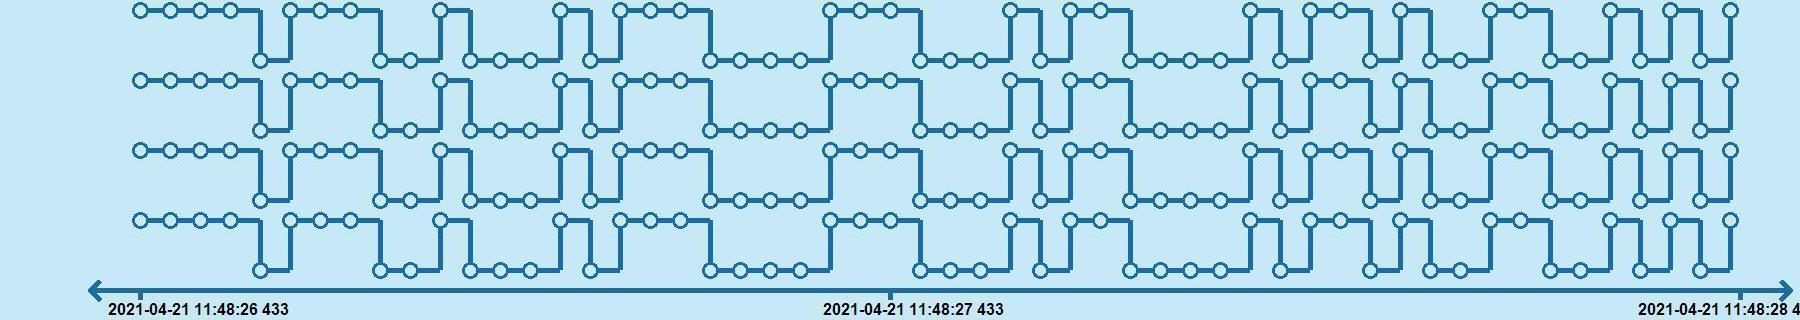
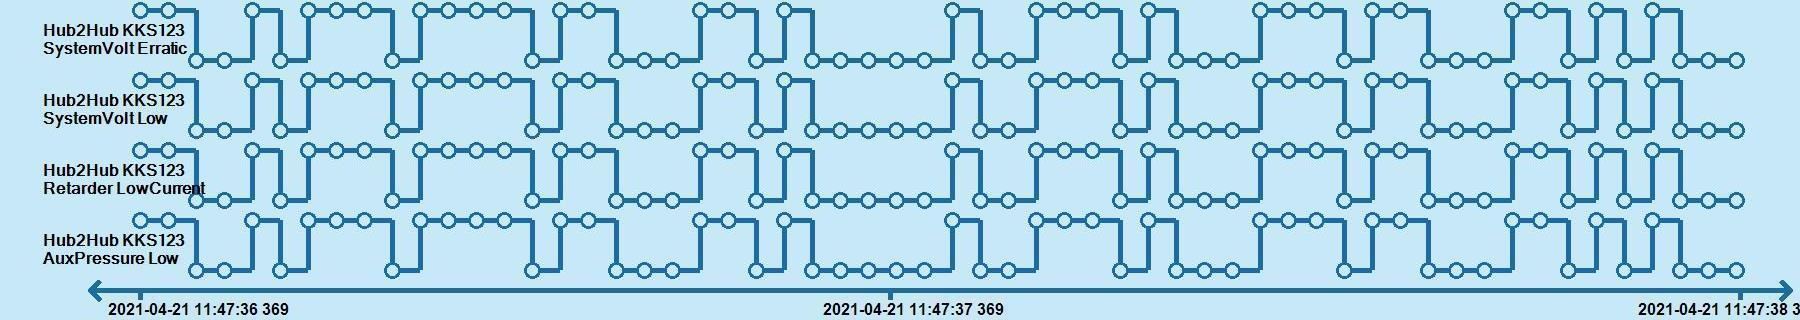
210427 2204

diff --git a/Application/Services/PlotService.cs b/Application/Services/PlotService.cs
@@ -20,12 +20,13 @@ namespace Application
         Color BackgroundColor = System.Drawing.ColorTranslator.FromHtml("#c6e8f7");
         Color PlotPenColor = System.Drawing.ColorTranslator.FromHtml("#1b6ca6");
         Color PlotCircleColor = System.Drawing.ColorTranslator.FromHtml("#1b6ca6");
-        //asdf
+
         public void ResetPlot()
         {
             System.IO.File.Delete("wwwroot/PlotWorkCanvas.jpeg");
             System.IO.File.Copy("wwwroot/PlotStartCanvas.jpeg", "wwwroot/PlotWorkCanvas.jpeg");
         }
+
         public List<Coordinate> CreateCoordinateList(List<XYValuePair> XYValuePairsList) //Bygg Överlagrad när det kommer till integers.
         {
             List<Int64> XWorkList = new List<Int64>();
@@ -118,8 +119,11 @@ namespace Application
             return result.ToString() + " " + result.Millisecond;
         }
 
-        public void PlotGraphTo(List<Coordinate> coordinates, string ImagePathPasteTo, int slot)
+        public void PlotGraphToWithLabel(List<Coordinate> coordinates, string ImagePathPasteTo, int slot, string PlotLabel)
         {
+            string[] words = PlotLabel.Split('_');
+            string PlotLabelPart1 = words[0] + " " + words[1];
+            string PlotLabelPart2 = words[2] + " " + words[3];
             int PenThickness = 5;
 
             //Adding artificiall step coordinates, to make a step graph
@@ -164,6 +168,10 @@ namespace Application
                             g.FillEllipse(EraseBrush, coordinates[i].XCoordinatePixel-7, coordinates[i].YCoordinatePixel-7, 14, 14); //g.DrawEllipse(pen, centerX - radius, centerY - radius, radius + radius, radius + radius);
                             g.DrawEllipse(CirclePen, coordinates[i].XCoordinatePixel - 7, coordinates[i].YCoordinatePixel - 7, 14, 14); //g.DrawEllipse(pen, centerX - radius, centerY - radius, radius + radius, radius + radius);
                         }
+                        RectangleF rectf = new RectangleF(0, 20, bitmap.Width, bitmap.Height);
+                        g.DrawString(PlotLabelPart1, new Font(" Helvetica", 10, FontStyle.Bold), Brushes.Black, rectf);
+                        RectangleF rectf2 = new RectangleF(0, 38, bitmap.Width, bitmap.Height);
+                        g.DrawString(PlotLabelPart2, new Font(" Helvetica", 10, FontStyle.Bold), Brushes.Black, rectf2);
                     }
                 }
                 System.GC.Collect();

diff --git a/Application/Utils/FixedSizedQueueService.cs b/Application/Utils/FixedSizedQueueService.cs
@@ -16,6 +16,7 @@ namespace Application.Utils
         {
             Size = size;
         }
+
         public void Push(T obj)
         {
             Queue.Enqueue(obj);
@@ -25,6 +26,26 @@ namespace Application.Utils
                 Queue.TryDequeue(out ObjectToThrowAway);
                 Debug.WriteLine($"In FixedSizedQueue, ett objekt faller ur då kön är full");
             }
+        }
+
+        public List<T> ContentsInQueue() //Ops, maybe not thread safe anymore :)
+        {
+            ConcurrentQueue<T> QueueTmp = new ConcurrentQueue<T>();
+            QueueTmp = Queue; 
+            List<T> ReturnList = new List<T>();
+            while (!QueueTmp.IsEmpty)
+            {
+                T retValue;
+                QueueTmp.TryDequeue(out retValue);
+                ReturnList.Add(retValue);
+            }
+            //Notering, ovan tömmer även Queue, ty det är copy by reference. så jag fyller queue igen. Kan också göras med Clone
+            T[] FillBackArray = ReturnList.ToArray();
+            for (int i = 0; i < FillBackArray.Count(); i++)
+            {
+                Queue.Enqueue(FillBackArray[i]);
+            }
+            return ReturnList;
         }
     }
 }
